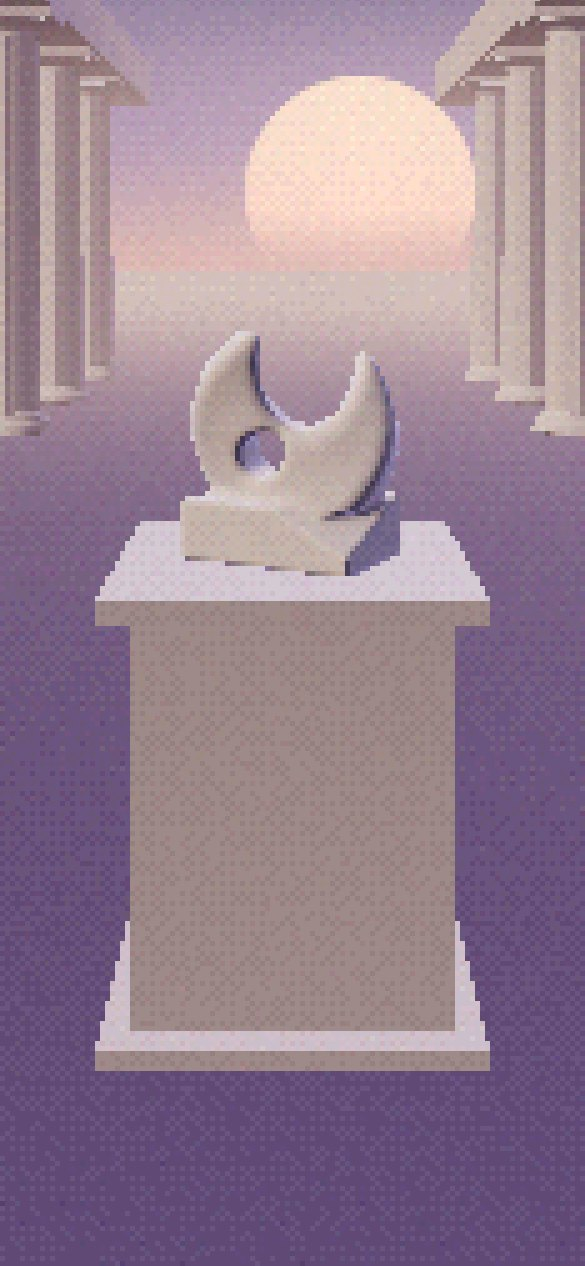
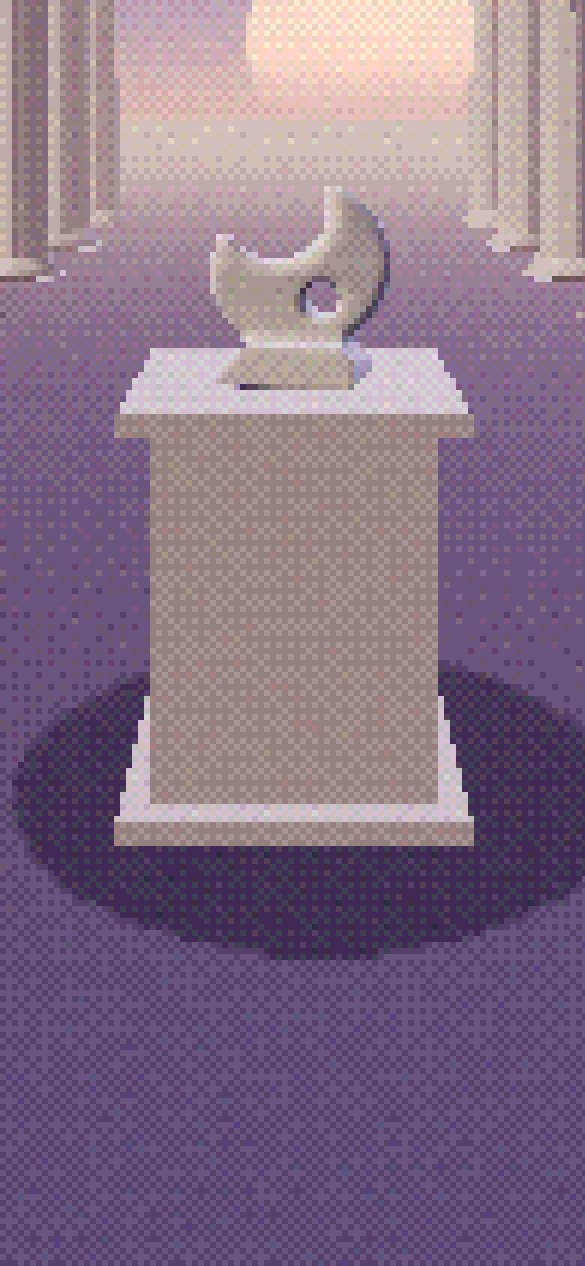
feat: generative abstract sculpture with still camera and 1/4 dither FX (L2)
- Seeded procedural sculpture (constrained to never read as a figure)
- Click/tap or 'Otra escultura' regenerates with an 800 ms Bayer dissolve;
  instant under motion off
- Museum label 'Escultura nº NNNN' and aria-live announcement (ES/CA/EN)
- No camera drift or pointer lean; FX default 1/4 pixels, strong dither

Claude-Session: https://claude.ai/code/session_01Kk9Ps64XG2jxb5VeaSqfrE

diff --git a/frontend/src/views/WelcomeView.vue b/frontend/src/views/WelcomeView.vue
@@ -41,7 +41,7 @@ function onSculpture(seed: number) {
           <SButton to="/login">{{ t('landing.begin') }}</SButton>
           <SButton to="/login?role=therapist" variant="quiet" class="px-2 text-link underline">{{ t('landing.therapist') }}</SButton>
         </div>
-        <SButton v-if="scene?.live" variant="quiet" size="compact" class="mt-3 px-2 text-link underline" @click="another">
+        <SButton v-if="scene?.live" variant="quiet" class="mt-2 px-2 text-link underline" @click="another">
           {{ t('landing.another') }}
         </SButton>
         <p class="sr-only" aria-live="polite">{{ announcement }}</p>

diff --git a/docs/redesign/liminal/NOTES.md b/docs/redesign/liminal/NOTES.md
@@ -1,85 +1,109 @@
 # Liminal Sanctuary: prototype notes (L2)
 
-`index.html` is a standalone prototype of the landing hero: an empty colonnade at dusk, a pastel sky, light fog and
-**one abstract object** on a plinth, seen through a low-resolution, dithered "pixel" pass. The landing copy is real
-(ES, CA, EN) and sits on a scrim. The scene code is `scene/sanctuaryScene.js`, a copy of the app module
-`frontend/src/components/sanctuary/scene/sanctuaryScene.js` (the source of truth).
+`index.html` is a standalone prototype of the landing hero. It shows an empty colonnade at dusk, a pastel sky and light fog,
+with **one generated marble sculpture** on a plinth, seen through a low-resolution, dithered "pixel" pass.
+The landing copy is real (ES, CA, EN) and sits on a scrim. The scene code is `scene/sanctuaryScene.js`, a byte-identical copy of
+the app module `frontend/src/components/sanctuary/scene/sanctuaryScene.js`, which is the source of truth.
 
-The mood is the approved **Quiet** preset from L1 (pastel dusk, light fog, 2 × 6 columns, near-still).
-The Dreaming and Liminal presets and the classical heads are gone: the owner ruled out human or figurative forms,
-and generated artworks will be abstract, so the scene now speaks about *making* (architecture, carving, geometry).
+The owner's decisions (2026-11-24):
+- the object is **Escultura abstracta**, and it is **generative**;
+- the scene is **fully still**: no camera drift, no pointer lean, no breathing, no turning;
+- the FX use the strongest setting by default: 1/4 resolution and strong dithering.
 
-## The three objects (dock: "Object")
+Ruina and Estudio remain in the dock for comparison.
 
-| | Ruina | Escultura abstracta (default) | Estudio |
-|---|---|---|---|
-| What | An Ionic capital with spiral volutes on the plinth; two broken fluted drums on the floor | A twisted, open cradle form drilled through once, carved out of a still-rough block ("non finito") | The sculptor's study: Dürer's solid (from *Melencolia I*), a sphere and a ring on three plinths of different heights |
-| Tap | Turns slowly by 90° (4.6 s, eased) | Turns slowly by 90° | The key light moves round (3 positions) and the solid and ring turn 60° |
-| Object triangles | ≈ 14.7k | ≈ 20.0k | ≈ 3.6k |
-| Scene triangles | ≈ 24.6k | ≈ 29.8k | ≈ 13.5k |
+## The generative sculpture
 
-The architecture (instanced columns, beams, floor) is about 9.9k triangles. No shadow maps, no mirror floor, no models.
+- A seed (0–9999) drives a small PRNG (mulberry32). The PRNG sets the block size and its 1–3 chamfers, and the ellipse proportions, lean and offset.
+  It also sets the position and size of the bite that opens the form, the twist, the thickness and taper, and the bow in plan.
+  It decides whether there is an opening (0 or 1), with its size and position, and the yaw.
+  `sculptureParams(seed)` → `sculptureSdf()` → marching cubes (`buildSculptureGeometry(seed, res = 60)`).
+- **Speed:** about 53 ms median in Node and about 60 ms in the browser (SwiftShader), which is well under the 150 ms budget. Sculptures have 10k–13k triangles,
+  and the whole scene has 20k–22k.
+- **Never figurative.** I checked 3 × 40 seeds on contact sheets and tightened the ranges after each round:
+  - Round 1: tall, edge-on teardrops with a hole high up (a "bird" or a "ghost with an eye"), and egg shapes with one hole. Fix: forms are always wider than tall (ry ≤ rx), the bite always cuts deep, and the hole sits in the lower body.
+  - Round 2: a strong twist turned the top edge-on (a "flame with an eye"), and near-vertical bites left two even horns ("ears"). Fix: twist ≤ 0.5 rad, yaw −22° ± 12°, and the bite at least 0.34 rad off vertical, so the horns are always uneven.
+  - Round 3: every seed reads as an abstract carved crescent or hook on a hewn block. There are never two holes, a head-on-shoulders silhouette or a face-like arrangement.
+- **Seed per visit:** a random seed, kept in `sessionStorage`, so a reload shows the same piece. URL `?seed=` overrides it in the prototype.
+  The posters use seed **0427**.
 
-### Vibecheck (VIBECHECK.md): first idea → flags → what we did instead
+### Regenerating
 
-- **Escultura:** first idea, a smooth glossy pebble with two holes → flags: "stock 3D blob", glossy orb, and two holes read as eyes (figurative) →
-  instead, matte marble, one drilled opening, an open asymmetric cradle with a twist, and a hewn block left rough underneath (the carving process is visible).
-- **Ruina:** first idea, a capital with an egg-and-dart moulding → flags: at low resolution the eggs read as a row of teeth (figurative) →
-  instead, a plain ovolo echinus; the volutes carry the detail, and the drums lie further back so the group reads as a quiet ruin.
-- **Estudio:** first idea, a polished chrome sphere with a glossy torus → flags: gradient orb / glossy blob, generic 3D-render still life →
-  instead, honed (satin) marble, a faceted Dürer solid as the focus, and a tap that moves the *light*, as in a drawing class.
+- **Button:** "Otra escultura" / "Una altra escultura" / "Another sculpture", a quiet text button in the landing panel.
+  It is a real `<button>`, so it works with the keyboard and screen readers. It only appears while the 3D scene is live.
+- **Click on the scene:** does the same (module option `interactive`).
+- **Transition:** an 800 ms dissolve in Bayer order. Each low-res pixel switches from the old sculpture to the new one when the progress passes its rank in the 4×4 matrix.
+  The new scene is rendered once into a second render target; during the dissolve only the output pass runs. The camera does not move.
+  With motion off, the new sculpture swaps in on the next frame.
+- **Museum label:** an HTML overlay (Tenor caps), pinned with `scene.anchor('plinth')`. In landscape it sits just right of the plinth; in portrait it sits on the plinth's front face.
+  It reads "ESCULTURA Nº 0427 / Mármol, generada para ti" (CA "Escultura núm. … / Marbre, generada per a tu"; EN "Sculpture no. … / Marble, made for you").
+- **Announcement:** a polite `aria-live` region says "Escultura nº 3947. Mármol, generada para ti." after each regeneration the person asked for, but not on first load.
+
+### Vibecheck: first idea → flags → what we did instead
+
+- **Escultura:**
+  - First idea: a smooth, glossy pebble with two holes, regenerated with a spin.
+  - Flags: stock 3D blob; two holes read as eyes; spinning "reveal" motion.
+  - Instead: matte marble carved out of a hewn block, at most one low opening, uneven horns, and a still camera with a dithered dissolve.
+- **Ruina:**
+  - First idea: egg-and-dart moulding.
+  - Flag: it reads as teeth at low resolution.
+  - Instead: a plain echinus, with the volutes carrying the detail.
+- **Estudio:**
+  - First idea: a chrome sphere and a glossy torus.
+  - Flag: gradient orb / glossy blob.
+  - Instead: honed marble, with Dürer's faceted solid as the focus.
 
 ## Post-FX (dock: "FX")
 
-One custom fullscreen pass (no EffectComposer): the scene renders into a half-float target at reduced size and is upscaled
-with NEAREST filtering in whole device-pixel blocks, so the pixels are crisp and evenly sized. HTML text is never affected.
+There is one custom output pass and no EffectComposer. The scene renders into a half-float target at reduced size, which is upscaled with nearest filtering in whole device-pixel blocks.
+HTML text is never affected.
 
 | Control | Options | Default |
 |---|---|---|
 | FX | on / off ("off" is the clean render with 4× MSAA) | **on** |
-| Pixel size | 1/2, 1/3, 1/4 of CSS resolution | **1/3** |
-| Dither | off / light / strong (4×4 Bayer, quantising each channel to about 25 or 13 levels) | **light** |
-| Film grain | on / off; **static** (a fixed hash per pixel, never refreshed) | **on** |
+| Pixel size | 1/2, 1/3, 1/4 of CSS resolution | **1/4** |
+| Dither | off / light / strong (4×4 Bayer, about 25 or 13 levels per channel) | **strong** |
+| Film grain | on / off; **static** (fixed per pixel, never refreshed) | **on** |
 | Vignette | on / off; soft | off |
 
-- **Stable pixel grid:** the camera never translates. Its lean and idle drift are rotations snapped to whole low-res pixels,
-  so the background moves in single, rare steps and nothing shimmers.
-- Grain and dither are computed per low-res pixel, so they form part of the pixel art rather than a screen-door overlay.
-- The sky writes alpha 0, so the output pass skips tone mapping for it and keeps the exact pastel colours.
+The sky writes alpha 0, so the output pass skips tone mapping for it and keeps the exact pastel colours.
 
-## Motion rules as built
+## Motion and rendering
 
-- Motion follows `prefers-reduced-motion` unless the dock toggle overrides it (remembered in localStorage, try/catch).
-  Motion off: the canvas renders still frames only, on change or resize.
-- Idle: the camera drifts at most ±0.1° and the object "breathes" ±0.4° over about 48 s. Pointer (mouse and pen only, never touch):
-  the camera leans ≤ 0.55°, the object ≤ 3° (yaw) and ≤ 1.5° (pitch), eased over about 1.2 s.
-- About 30 fps while something moves; no frames when still or when the tab is hidden. DPR capped at 1.5, dropping to 1 if frames stay slow.
-- Nothing flashes, no glitch, scan lines or VHS. The grain is static. Object changes swap in one frame.
+- **Still.** A frame is rendered only on a change: resize, options, a new sculpture. During the dissolve it runs at about 30 fps for 0.8 s, and never while the tab is hidden.
+- **Motion off** (Comfort or `prefers-reduced-motion`, dock toggle in the prototype): no dissolve, instant swap.
+- DPR is capped at 1.5. There are no shadow maps (soft contact decals instead), no mirror floor, and the columns are instanced.
 
-## Module API (used by `SanctuaryScene.vue`)
+## Module API
 
 ```js
-const s = await createSanctuaryScene(canvas, { object: 'escultura', fx: true, pixelScale: 3, motion: true, framing: 'landing', onReady });
-s.setOptions({ object: 'ruina', fx: false, motion: false, framing: 'background', dither: 0.8, grain: 0, vignette: 1 });
-s.resize(); s.snapshot('image/jpeg', 0.86); s.dispose();
+const s = await createSanctuaryScene(canvas, {
+  object: 'escultura', fx: true, pixelScale: 4, motion: true, framing: 'landing', onReady,
+  seed: 427, onSculpture: seed => {}, interactive: true,       // additions; all optional
+  dither: 0.8, grain: 0.5, vignette: 0, onError,
+});
+s.regenerate();      // → new seed (random); s.regenerate(1203) → 1203
+s.seed;              // current seed
+s.anchor('plinth');  // {x, y} in CSS px from the canvas's top-left corner, for a label
+s.setOptions({ seed: 88, fx: false }); s.resize(); s.snapshot('image/jpeg', 0.86); s.dispose();
 ```
 
-Extra options: `dither` (0–1, default 0.35), `grain` (0–1, default 0.5), `vignette` (0–1, default 0), `onError(err)` for a lost
-WebGL context (without it the handler throws). `triangles('scene' | 'object')` is a debugging helper.
-Framings: `landing` (object at two thirds in landscape, top band in portrait), `background` (centred, smaller, high),
-`small` (tight, centred, for a small canvas such as the waiting state).
+`SanctuaryScene.vue` passes `pixelScale: 4, dither: 0.8`, the session seed, `interactive` and `label` props. It emits `sculpture(seed)` and
+exposes `regenerate()`, `live` and `seed`. `WelcomeView` adds the button and the live region. Login, Signup and Session end use
+`framing="background"` without `interactive`, so they show the same still sculpture of the visit.
+In the app, the DuskLayout content layer covers the scene, so on those screens the button is the way to regenerate.
 
-Verified in Chromium (SwiftShader): 1440×900 and 390×844 for each object with FX on and off, no console errors, no horizontal
-scroll, lean, tap, keyboard access to the FX panel, 3D off shows the poster. The lazy `sanctuaryScene` chunk in the app build is
-542 KB raw / 143 KB gzip (three core + MarchingCubes + ConvexGeometry); three is not in the main bundle.
+The lazy `sanctuaryScene` chunk is 543 KB raw / 144 KB gzip, and three is not in the main bundle.
 
 ### Possible saving for `small` (not built)
 
-For the small framing, the sky sphere and the colonnade could be skipped: the output pass already knows which pixels are sky
-(alpha 0), so it could draw the gradient and sun itself from the view ray (inverse projection), with no sky geometry at all.
+The output pass already knows which pixels are sky (alpha 0). It could draw the gradient and the sun from the view ray itself, so the small framing would not need the sky sphere or the colonnade.
 
 ## Regenerating the posters
 
-Load `index.html?object=<name>&motion=0&fx=1`, then save `__liminal.snapshot('image/jpeg', 0.86)` at 1440×900 and at
-390×844 (DPR 1.5) into `posters/`, and copy them to `frontend/src/assets/sanctuary/poster-<name>[-portrait].jpg`.
-Useful URL parameters: `object`, `motion`, `fx`, `px` (2, 3, 4), `dither` (off, light, strong), `grain`, `vignette`, `framing`, `lang`.
+1. Load `index.html?object=<name>&motion=0&seed=427` (the defaults are FX on, 1/4, strong).
+2. Save `__liminal.snapshot('image/jpeg', 0.86)` at 1440×900 and at 390×844 (DPR 1.5) into `posters/`.
+3. Copy them to `frontend/src/assets/sanctuary/poster-<name>[-portrait].jpg`.
+
+Useful URL parameters: `object`, `seed`, `motion`, `fx`, `px`, `dither`, `grain`, `vignette`, `framing`, `lang`.

diff --git a/docs/redesign/liminal/ASSETS.md b/docs/redesign/liminal/ASSETS.md
@@ -19,14 +19,14 @@ What the module builds, all from three.js primitives (licence: same as the proje
 | Colonnade | Fluted Doric columns (16 flutes with entasis, lathe base and echinus, abacus), 2 × 6, instanced in two levels of detail; two beams |
 | Floor | One plane in fog; soft contact shadows are radial-gradient decals (a 64 px canvas texture drawn at runtime), no shadow maps |
 | **Ruina** | Ionic capital: lathe echinus and astragal, an extruded volute bolster, spiral scrolls as tubes on both faces, balteus bands, abacus. Two broken fluted drums (seeded jagged break) lying on the floor |
-| **Escultura abstracta** | A signed-distance field (a twisted, open cradle form drilled through once, rising out of a hewn block) meshed with `MarchingCubes` from three/addons |
+| **Escultura abstracta** | Generative: a seeded signed-distance field (an open, twisted crescent form with at most one opening, rising out of a hewn block) meshed with `MarchingCubes` from three/addons |
 | **Estudio** | Dürer's truncated rhombohedron (72° rhombi, both apexes cut; *Melencolia I*, 1514, public domain as a geometric idea) built with `ConvexGeometry`; a sphere; a torus; three plinths |
-| Post-FX | One custom fullscreen pass: nearest-neighbour upscale from a 1/2, 1/3 or 1/4 resolution render target, tone mapping, static film grain, 4×4 Bayer ordered dithering, optional soft vignette |
+| Post-FX | One custom fullscreen pass: nearest-neighbour upscale from a 1/2, 1/3 or 1/4 resolution render target, a Bayer-order dissolve between two sculptures, tone mapping, static film grain, 4×4 Bayer ordered dithering, optional soft vignette |
 
 ## Posters (`posters/`)
 
 Rendered from the scene itself with `snapshot()` (`canvas.toDataURL('image/jpeg', 0.86)`), motion off, objects at rest,
-with the default post-FX (1/3 resolution, light dithering, static grain). Licence: same as the project.
+with the default post-FX (1/4 resolution, strong dithering, static grain); the Escultura posters show seed 0427. Licence: same as the project.
 The same six files are copied into the app as `frontend/src/assets/sanctuary/poster-<object>[-portrait].jpg`.
 
 | File | Viewport |

diff --git a/docs/redesign/PLAN.md b/docs/redesign/PLAN.md
@@ -114,3 +114,4 @@ the stakeholder meeting.
 - 2026-11-24 — F1: VC1 must-fixes applied to the foundation (dusk horizon, sun on the horizon, strata mist, dither, left-aligned DuskLayout, square hung ArtworkMount, flat SCard, Tenor caps only for wordmark/display/museum labels, SessionCard status on the date leaf, Comfort check + dusk panel, text-only nav, profile menu without role label) and the "patient" sweep of visible text; both builds pass.
 - 2026-11-24 — L2: procedural Liminal scene (Quiet mood) with 3 abstract objects Ruina / Escultura abstracta / Estudio (no figures, no models), custom post-FX (1/3-res nearest pixels, light Bayer dither, static grain, optional vignette), module `frontend/src/components/sanctuary/scene/sanctuaryScene.js` (+ copy in `docs/redesign/liminal/scene/`), new posters in both places, old models/ and human-figure posters deleted; ≤ 30k tris per scene; lazy chunk 143 KB gzip; builds pass, no console errors. Status done.
 - 2026-11-24 — B2: patient home + creation workspace (CreateView "Taller", components/create/*, notesService + demo notes map, session chat aside, session end via B1 overlay); legacy creation screens under /legacy/*; demo + normal builds pass; Playwright: words/draw/combine flows, versions, keep, reflection note stored, two-page share reaches therapist, session end, 1440/1280/1024, 150% EN keyboard pass, no console errors. Status done.
+- 2026-11-25 — L2 (round 2): generative Escultura (seeded SDF, 0–1 opening, 120 seeds checked for figurative reads), regenerate via button/click with an 800 ms Bayer dissolve, museum label + aria-live, fully still scene, FX default 1/4 + strong dither; SanctuaryScene.vue (seed, regenerate, label, `sculpture` event), WelcomeView button, `landing.*` keys; posters re-rendered (seed 0427); both builds pass, no console errors. Status done.
